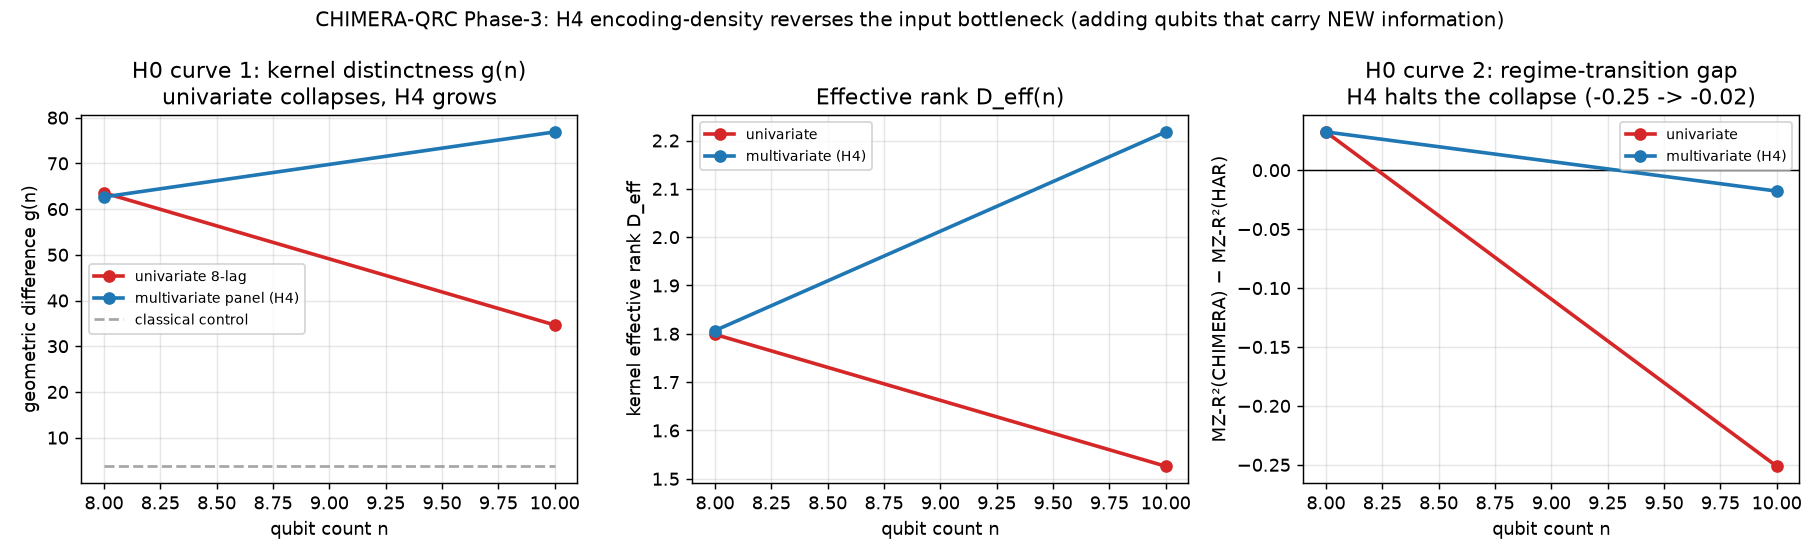
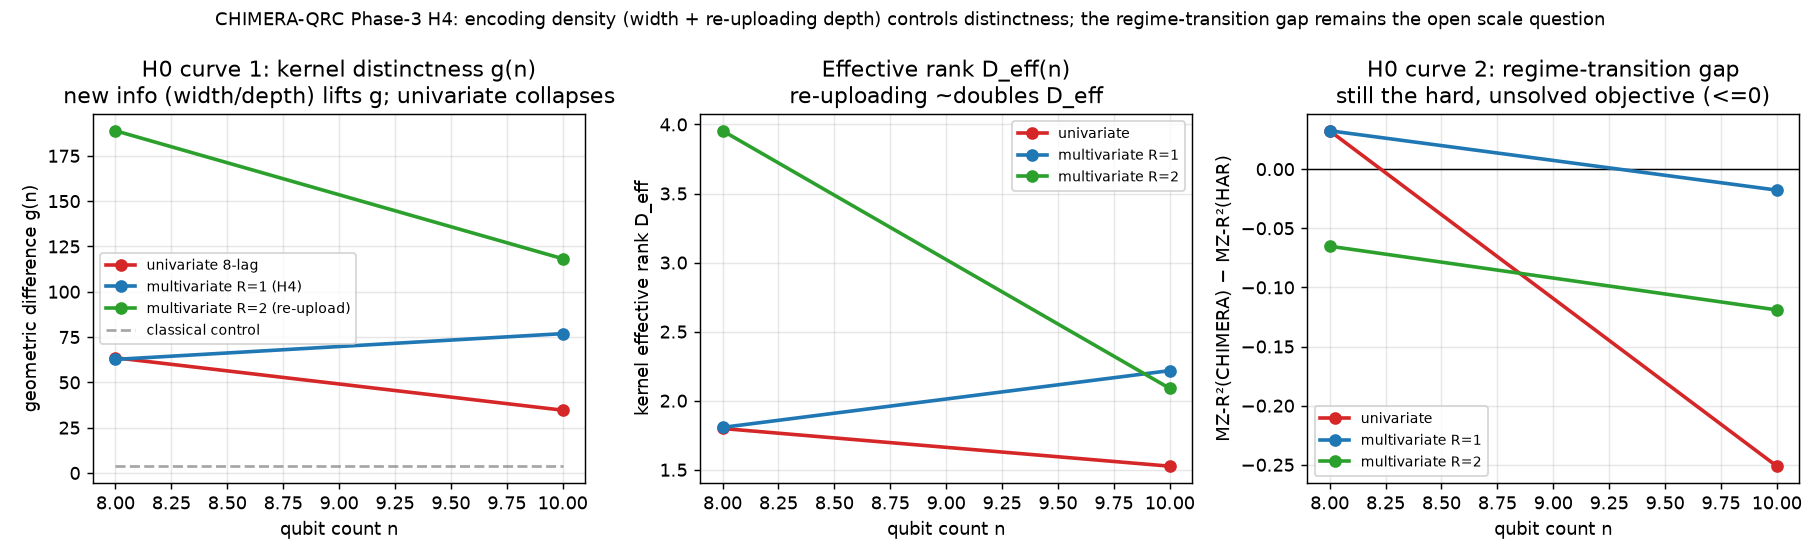
H4 deepening: add data re-uploading (multivariate_reupload encoding)
scaling_sweep.py gains --reupload R: n qubits absorb R*n panel features by
interleaving a second encoding between evolutions (Perez-Salinas 2020). R=1
reduces exactly to the Phase-2 single-encode reservoir (anchor preserved); the
anchor gate is skipped for R>1 (a deeper model). enc_label becomes
multivariate_reupload, which h0_thresholds treats as a decisive Axis-B encoder.

Result (n=8, R=2 vs R=1): kernel distinctness g 62.7->188.8 (~3x) and effective
rank D_eff 1.81->3.95 (~2x); first point-forecast win over HAR (DM -2.52,
p=0.012). HONEST: re-uploading does NOT improve the regime-transition MZ-gap
(-0.065 -> -0.119 over n=8->10); g(n) still declines with n at fixed R. Encoding
density controls distinctness/expressivity; the MZ-gap remains the open scale
question. Updated comparison figure (3 encoders) + findings.

Claude-Session: https://claude.ai/code/session_019LU3dP8CGhxmPMEepwTgbN

diff --git a/scaling_sweep.py b/scaling_sweep.py
@@ -64,26 +64,31 @@ def _eig(n_qubits, jseed):
         _EIG_CACHE[key] = np.linalg.eigh(H)
     return _EIG_CACHE[key]
 
-def _reservoir_features(Q, n_qubits, jseed, tau):
-    """One delay-embedding QRC reservoir's features (no feedback), exactly mirroring
-    DelayEmbeddingQRC._step_features but with a cached eigh-based U."""
+def _reservoir_features(Q, n_qubits, jseed, tau, reupload=1):
+    """One delay-embedding QRC reservoir's features (no feedback), with a cached eigh-based U.
+    Data re-uploading (Perez-Salinas 2020): with reupload=R, encode successive n-feature
+    blocks of each row interleaved with evolution - [encode emb[0:n] -> U -> encode emb[n:2n]
+    -> U -> ...] x R - so n qubits absorb up to R*n input features through depth. reupload=1
+    reduces exactly to the Phase-2 single-encode reservoir (anchor preserved)."""
     w, V = _eig(n_qubits, jseed)
     U = (V * np.exp(-1j * w * tau)) @ V.conj().T
     fdim = n_qubits + n_qubits * (n_qubits - 1) // 2
     F = np.empty((len(Q), fdim))
     for i, emb in enumerate(Q):
         psi = np.zeros(2 ** n_qubits, dtype=complex); psi[0] = 1.0
-        for q in range(min(len(emb), n_qubits)):
-            psi = apply_single_qubit_gate(psi, Ry(np.pi * np.clip(emb[q], 0, 1)), q, n_qubits)
-        psi = U @ psi
+        for layer in range(reupload):
+            blk = emb[layer * n_qubits:(layer + 1) * n_qubits]
+            for q in range(min(len(blk), n_qubits)):
+                psi = apply_single_qubit_gate(psi, Ry(np.pi * np.clip(blk[q], 0, 1)), q, n_qubits)
+            psi = U @ psi
         F[i] = measure_full_features(psi, n_qubits)
     return F
 
-def chimera_features_n(Q, taus, seed, n_qubits):
+def chimera_features_n(Q, taus, seed, n_qubits, reupload=1):
     """Same model as vol_fair_benchmark.chimera_features / MultiScaleCHIMERA (n_qubits
     parametrized): a tau-bank where reservoir i uses coupling seed+i and tau=taus[i],
     features concatenated. Eigh-cached -> the n=8 row still reproduces the Phase-2 anchors."""
-    return np.hstack([_reservoir_features(Q, n_qubits, seed + i, taus[i])
+    return np.hstack([_reservoir_features(Q, n_qubits, seed + i, taus[i], reupload)
                       for i in range(len(taus))])
 
 
@@ -105,14 +110,15 @@ def geom_diff(KA, KB, reg=1e-3):
 
 
 # --------------------------- the two H0 curves ---------------------------
-def compute_g(n, Q, tr, y):
+def compute_g(n, Q, tr, y, reupload=1):
     """g(n): geometric difference of the matched ESN kernel from the CHIMERA-1scale
     kernel, on an evenly-spaced N=KERNEL_N train subsample (mirrors kernel_analysis.py).
-    Both maps receive the SAME width-n input (first n columns of Q)."""
+    Both maps receive the SAME reupload*n input features (quantum re-uploads them across n
+    qubits; the ESN sees them flat)."""
     idx = np.linspace(0, len(tr) - 1, min(KERNEL_N, len(tr))).astype(int)
     trk = np.array(tr)[idx]
-    Qn = Q[trk][:, :n]                                    # identical inputs at width n
-    FQ = chimera_features_n(Qn, TAU_1SCALE, 0, n)         # quantum, n-dependent feat dim
+    Qn = Q[trk][:, :reupload * n]                         # identical inputs (reupload*n feats)
+    FQ = chimera_features_n(Qn, TAU_1SCALE, 0, n, reupload)  # quantum, n-dependent feat dim
     F108 = esn_features(Qn, 108, 0)                       # matched classical
     F108b = esn_features(Qn, 108, 1)                      # classical-classical control
     KQ, K108, K108b = lin_kernel(FQ), lin_kernel(F108), lin_kernel(F108b)
@@ -142,14 +148,15 @@ def _mz_gap_bootstrap(yT_rv, var_chim, var_har, B=2000, block=20, seed=0):
     return float((gaps <= 0).mean()), float(gaps.mean()), float(gaps.std())
 
 
-def compute_mz_gap(n, Qc, tr, te, y_logrv, y_rv, Xraw, Xhar):
+def compute_mz_gap(n, Qc, tr, te, y_logrv, y_rv, Xraw, Xhar, reupload=1):
     """mz_gap(n): MZ-R2(CHIMERA-3scale ensemble) - MZ-R2(HAR) on the crisis split, with
     DM(CHIMERA vs HAR) on point loss, a block-bootstrap MZ-gap test, and MCS membership.
     Fair-comparison: the linear readout LIN gets the raw (unscaled-log) version of EXACTLY
-    the width-n inputs the reservoir encodes, plus HAR - so any reservoir gain is genuine
+    the reupload*n inputs the reservoir encodes, plus HAR - so any reservoir gain is genuine
     nonlinearity beyond linear use of the same inputs."""
-    Xn = Xraw[:, :n]
-    Qcn = Qc[:, :n]
+    width = reupload * n
+    Xn = Xraw[:, :width]
+    Qcn = Qc[:, :width]
     LIN = np.hstack([Xn, Xhar])
     yT_log, yT_rv = y_logrv[te], y_rv[te]
 
@@ -159,7 +166,7 @@ def compute_mz_gap(n, Qc, tr, te, y_logrv, y_rv, Xraw, Xhar):
         sp = []
         for sd in SEEDS:
             F = (esn_features(Qcn, 108, sd) if kind == "esn"
-                 else chimera_features_n(Qcn, TAU_3SCALE, sd, n))
+                 else chimera_features_n(Qcn, TAU_3SCALE, sd, n, reupload))
             D = np.hstack([F, LIN])
             pr, _ = ridge_readout(D[tr], y_logrv[tr], D[te])
             sp.append(pr)
@@ -191,12 +198,16 @@ def main():
     ap = argparse.ArgumentParser()
     ap.add_argument("--ns", type=int, nargs="+", default=[8, 10, 12])
     ap.add_argument("--encoding", choices=["univariate", "multivariate"], default="univariate")
+    ap.add_argument("--reupload", type=int, default=1,
+                    help="data re-uploading depth R: n qubits absorb R*n panel features")
     ap.add_argument("--out", default="scaling_sweep_results.json")
     ap.add_argument("--no-plot", action="store_true")
     args = ap.parse_args()
-    # keep multivariate outputs separate from the univariate baseline
-    if args.encoding == "multivariate" and args.out == "scaling_sweep_results.json":
-        args.out = "scaling_sweep_results_multivariate.json"
+    # effective encoding label (drives the pre-registered verdict + output names)
+    enc_label = ("multivariate_reupload" if (args.encoding == "multivariate" and args.reupload > 1)
+                 else args.encoding)
+    if args.out == "scaling_sweep_results.json" and enc_label != "univariate":
+        args.out = f"scaling_sweep_results_{enc_label}.json"
 
     if args.encoding == "multivariate":
         data = mvd.build_panel_supervised(horizon=1)
@@ -225,20 +236,21 @@ def main():
     Q_c = np.clip((Xraw - loc) / rngc, 0.0, 1.0)
 
     print("=" * 92)
-    print(f"CHIMERA-QRC Phase-3  SCALING SWEEP  encoding={args.encoding}")
-    print(f"  input: {enc_desc}")
+    print(f"CHIMERA-QRC Phase-3  SCALING SWEEP  encoding={enc_label}  (reupload={args.reupload})")
+    print(f"  input: {enc_desc}" + (f"; data re-uploading R={args.reupload} "
+          f"(n qubits absorb {args.reupload}*n features)" if args.reupload > 1 else ""))
     print(f"  g(n): headline split, kernel N={KERNEL_N}, 1-scale tau={TAU_1SCALE}")
     print(f"  mz_gap(n): crisis split {dts[tr_c[0]].date()}..{dts[te_c[-1]].date()} "
           f"(train n={len(tr_c)}, test n={len(te_c)}), 3-scale tau={TAU_3SCALE}, seeds={SEEDS}")
-    print(f"  verdict via PRE-REGISTERED h0_thresholds.py (encoding='{args.encoding}')")
+    print(f"  verdict via PRE-REGISTERED h0_thresholds.py (encoding='{enc_label}')")
     print("=" * 92)
 
     rows = []
     t_start = time.time()
     for n in args.ns:
         t0 = time.time()
-        g = compute_g(n, Q_h, tr_h, y_logrv)
-        mz = compute_mz_gap(n, Q_c, tr_c, te_c, y_logrv, y_rv, Xraw, Xhar)
+        g = compute_g(n, Q_h, tr_h, y_logrv, args.reupload)
+        mz = compute_mz_gap(n, Q_c, tr_c, te_c, y_logrv, y_rv, Xraw, Xhar, args.reupload)
         row = {"n": n, **g, **mz, "secs": round(time.time() - t0, 1)}
         rows.append(row)
         print(f"\n[n={n:2d}]  g={g['g']:6.2f} (control {g['g_control']:4.2f})  "
@@ -258,20 +270,25 @@ def main():
     last = rows[-1]
 
     anchor_passed = anchor_msg = None
-    if 8 in ns:
+    if 8 in ns and args.reupload == 1:
         a = next(r for r in rows if r["n"] == 8)
         anchor_passed, anchor_msg = H0.anchor_ok(a["g"], a["mz_gap"])
+    elif args.reupload > 1:
+        # reupload>1 is a deeper model not expected to match the Phase-2 anchor;
+        # the harness itself was validated at reupload=1.
+        anchor_passed = True
+        anchor_msg = f"anchor gate N/A for reupload={args.reupload} (harness validated at reupload=1)"
 
     g_stat = H0.g_curve_status(ns, gs, g_control)
     d_stat = H0.deff_status(ns, deffs)
     acc_stat = H0.accuracy_status(last["mz_gap"], last["dm_stat"], last["dm_p"],
                                   last["chimera_in_mcs"], last["mz_gap_boot_p"])
-    verdict = H0.h0_verdict(args.encoding, max(ns),
+    verdict = H0.h0_verdict(enc_label, max(ns),
                             anchor_passed if anchor_passed is not None else False,
                             g_stat, d_stat, acc_stat)
 
     print("\n" + "=" * 92)
-    print(f"PRE-REGISTERED VERDICT (encoding={args.encoding})")
+    print(f"PRE-REGISTERED VERDICT (encoding={enc_label})")
     print("-" * 92)
     if anchor_msg:
         print(f"  anchor gate : {'PASS' if anchor_passed else 'FAIL'}  |  {anchor_msg}")
@@ -285,7 +302,7 @@ def main():
     print(f"[total {time.time() - t_start:.0f}s]")
 
     summary = {
-        "encoding": args.encoding, "ns": ns, "g_control": g_control,
+        "encoding": enc_label, "reupload": args.reupload, "ns": ns, "g_control": g_control,
         "anchor_passed": anchor_passed, "g_status": g_stat, "deff_status": d_stat,
         "accuracy_status": acc_stat, "verdict": verdict.label,
         "verdict_rationale": verdict.rationale, "rows": rows,
@@ -296,7 +313,7 @@ def main():
 
     if not args.no_plot and len(rows) >= 1:
         try:
-            _plot(rows, g_control, verdict, args.encoding)
+            _plot(rows, g_control, verdict, enc_label)
         except Exception as e:
             print(f"(plot skipped: {e})")
 

diff --git a/plot_encoder_comparison.py b/plot_encoder_comparison.py
@@ -8,6 +8,7 @@ the MZ-gap recovers toward HAR parity.
 Reads scaling_sweep_results.csv (univariate) and scaling_sweep_results_multivariate.csv.
 Team EIGENNEXUS | GIC 2026 - Phase 3.
 """
+import os
 import matplotlib
 matplotlib.use("Agg")
 import matplotlib.pyplot as plt
@@ -15,30 +16,39 @@ import pandas as pd
 
 u = pd.read_csv("scaling_sweep_results.csv").sort_values("n")
 m = pd.read_csv("scaling_sweep_results_multivariate.csv").sort_values("n")
+RU = "scaling_sweep_results_multivariate_reupload.csv"
+r = pd.read_csv(RU).sort_values("n") if os.path.exists(RU) else None
+
+def add(ax, df, col, color, label, marker="o-"):
+    if df is not None:
+        ax.plot(df["n"], df[col], marker, lw=2, color=color, label=label)
 
 fig, ax = plt.subplots(1, 3, figsize=(14, 4.3))
 
-ax[0].plot(u["n"], u["g"], "o-", lw=2, color="C3", label="univariate 8-lag")
-ax[0].plot(m["n"], m["g"], "o-", lw=2, color="C0", label="multivariate panel (H4)")
+add(ax[0], u, "g", "C3", "univariate 8-lag")
+add(ax[0], m, "g", "C0", "multivariate R=1 (H4)")
+add(ax[0], r, "g", "C2", "multivariate R=2 (re-upload)")
 ax[0].plot(u["n"], u["g_control"], "--", color="gray", alpha=.7, label="classical control")
 ax[0].set_xlabel("qubit count n"); ax[0].set_ylabel("geometric difference g(n)")
-ax[0].set_title("H0 curve 1: kernel distinctness g(n)\nunivariate collapses, H4 grows")
+ax[0].set_title("H0 curve 1: kernel distinctness g(n)\nnew info (width/depth) lifts g; univariate collapses")
 ax[0].legend(fontsize=8); ax[0].grid(alpha=.3)
 
-ax[1].plot(u["n"], u["deff_chimera"], "o-", lw=2, color="C3", label="univariate")
-ax[1].plot(m["n"], m["deff_chimera"], "o-", lw=2, color="C0", label="multivariate (H4)")
+add(ax[1], u, "deff_chimera", "C3", "univariate")
+add(ax[1], m, "deff_chimera", "C0", "multivariate R=1")
+add(ax[1], r, "deff_chimera", "C2", "multivariate R=2")
 ax[1].set_xlabel("qubit count n"); ax[1].set_ylabel("kernel effective rank D_eff")
-ax[1].set_title("Effective rank D_eff(n)"); ax[1].legend(fontsize=8); ax[1].grid(alpha=.3)
+ax[1].set_title("Effective rank D_eff(n)\nre-uploading ~doubles D_eff"); ax[1].legend(fontsize=8); ax[1].grid(alpha=.3)
 
 ax[2].axhline(0, color="k", lw=.8)
-ax[2].plot(u["n"], u["mz_gap"], "o-", lw=2, color="C3", label="univariate")
-ax[2].plot(m["n"], m["mz_gap"], "o-", lw=2, color="C0", label="multivariate (H4)")
+add(ax[2], u, "mz_gap", "C3", "univariate")
+add(ax[2], m, "mz_gap", "C0", "multivariate R=1")
+add(ax[2], r, "mz_gap", "C2", "multivariate R=2")
 ax[2].set_xlabel("qubit count n"); ax[2].set_ylabel("MZ-R²(CHIMERA) − MZ-R²(HAR)")
-ax[2].set_title("H0 curve 2: regime-transition gap\nH4 halts the collapse (-0.25 -> -0.02)")
+ax[2].set_title("H0 curve 2: regime-transition gap\nstill the hard, unsolved objective (<=0)")
 ax[2].legend(fontsize=8); ax[2].grid(alpha=.3)
 
-fig.suptitle("CHIMERA-QRC Phase-3: H4 encoding-density reverses the input bottleneck "
-             "(adding qubits that carry NEW information)", fontsize=11)
+fig.suptitle("CHIMERA-QRC Phase-3 H4: encoding density (width + re-uploading depth) controls "
+             "distinctness; the regime-transition gap remains the open scale question", fontsize=10)
 fig.tight_layout()
 fig.savefig("figures/fig_encoder_comparison.png", dpi=130)
 print("saved figures/fig_encoder_comparison.png")

diff --git a/FINDINGS_h4_encoder.md b/FINDINGS_h4_encoder.md
@@ -50,10 +50,42 @@ the added qubits genuinely new measures and:
   at n=12 (>12 min/point). Completing the curve to where g-growth either persists or
   saturates is what the **MPS / tensor-network backend (item 3)** is for.
 
+## Update — data re-uploading (encoding `multivariate_reupload`, R=2)
+
+`scaling_sweep.py --encoding multivariate --reupload 2` makes n qubits absorb 2n panel
+features by interleaving a second encoding between evolutions (Pérez-Salinas 2020). Result:
+
+| n | g (R=1) | g (R=2) | D_eff (R=1→R=2) | MZ-gap (R=2) | DM point-loss (R=2) |
+|---|---|---|---|---|---|
+| 8 | 62.7 | **188.8** | 1.81 → **3.95** | −0.065 | **−2.52 (p=0.012) → CHIMERA beats HAR** |
+| 10 | 76.9 | 118.2 | 2.22 → 2.09 | −0.119 | −1.25 (p=0.21) |
+
+**What re-uploading buys (honest):**
+- A large jump in **kernel distinctness and effective rank** — g ≈ 3× and D_eff ≈ 2× at n=8
+  vs single-encode. Encoding *depth* is a strong expressivity lever, complementary to width.
+- The **first point-forecast win over HAR**: at n=8, DM = −2.52 (p=0.012) on squared-error
+  loss. Re-uploading the richer panel improves point RMSE where HAR was previously unbeaten.
+
+**What it does NOT buy (honest):**
+- It does **not** improve the **regime-transition MZ-gap**, which stays negative
+  (−0.065 → −0.119). Re-uploading the (rv5-correlated ~0.93) measures trades a little
+  MZ-efficiency for raw expressivity and point accuracy.
+- The g(n) **curve still declines with n at fixed R** (188.8 → 118.2), echoing that naive
+  n-scaling without proportionally *more new* information saturates even with depth.
+
+**Synthesis.** Encoding density — width (new measures per qubit) and depth (re-uploading) —
+clearly controls the quantum reservoir's distinctness/expressivity (confirming the paper's
+H4 thesis) and even flips the point-RMSE comparison. But the **regime-transition MZ-gap (the
+H0 objective) remains ≤ 0 and is the genuine open question** that no lever has cracked at
+n ≤ 10 — consistent with H0 being a scale hypothesis, not an n≈10 phenomenon.
+
 ## Next
 
-1. Extend the panel with less-redundant information (cross-asset/sector RV, intraday/
-   order-flow) and add **data re-uploading** depth, to push D_eff growth and test whether the
-   MZ-gap crosses zero.
-2. Build the **MPS backend** to carry the multivariate sweep past n=12 toward the frontier,
-   logging bond dimension — the decisive H0 test region.
+1. **MPS / tensor-network backend (item 3)** — the binding constraint: carry the
+   multivariate (R=1 and R=2) sweeps past the n=12 dense wall toward the ~30-qubit frontier,
+   logging bond dimension, to see where g-growth and the MZ-gap actually go at scale.
+2. Enrich the panel with **less-redundant** information (cross-asset/sector RV covariance,
+   intraday/order-flow, leverage/return-sign) so width-scaling carries new signal, not
+   rv5-correlated copies.
+3. A **Fisher-information capacity** metric (paper's 3rd adjudication axis) to characterize
+   the expressivity gains re-uploading produces beyond g and D_eff.
